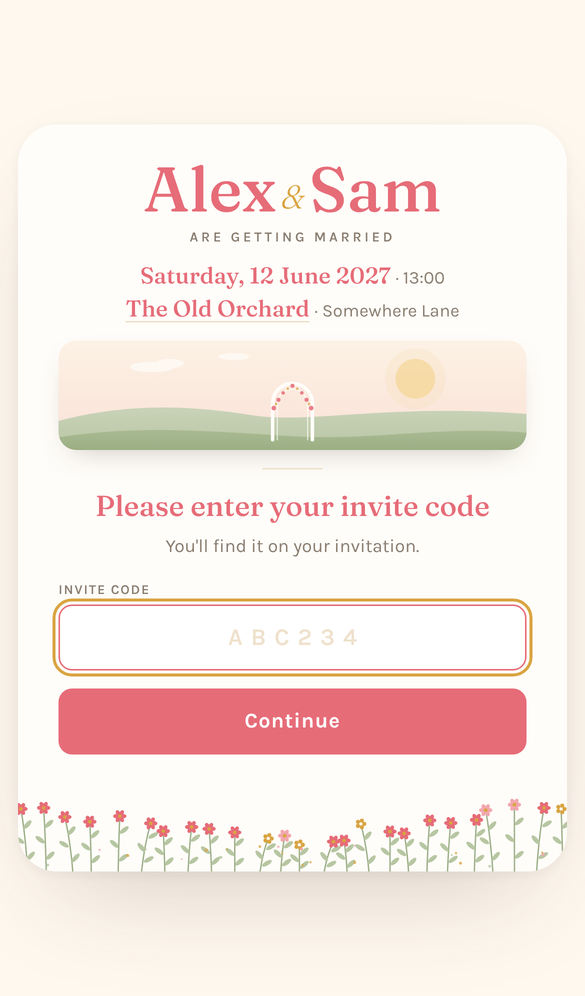
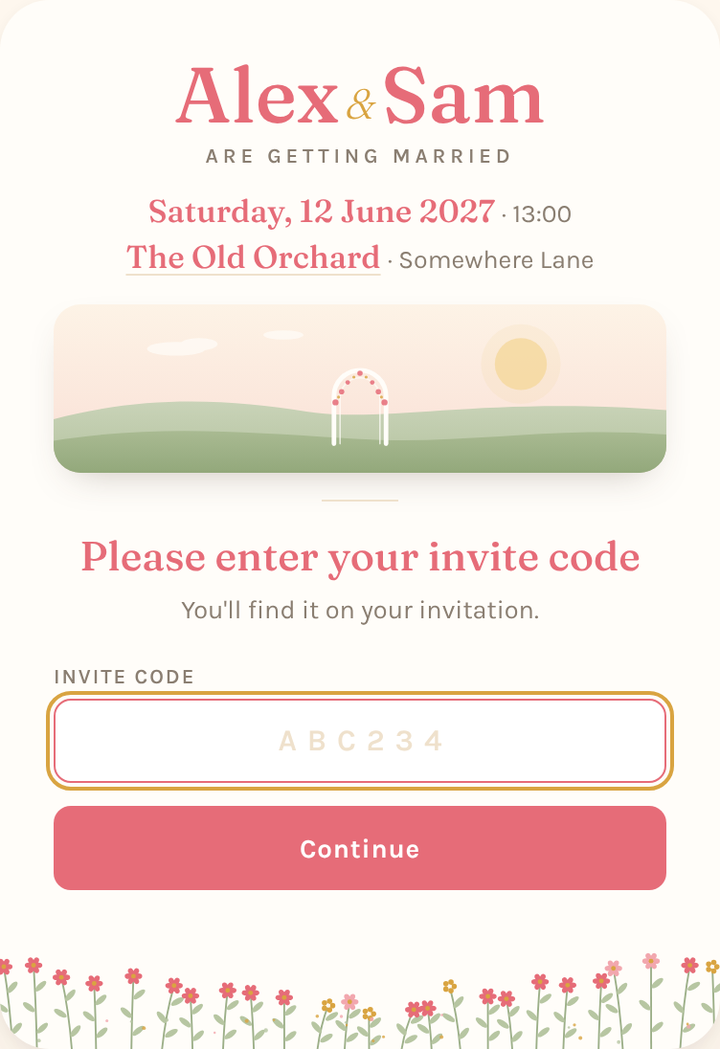
README: link the live demo; fresh screenshots of the current design

Changed region(s): [[0.0, 0.0622, 1.0, 1.0], [0.0, 0.3112, 0.0308, 0.7781]]

diff --git a/README.md b/README.md
@@ -8,6 +8,10 @@ invitation, say who's coming, add plus ones, and pick meals if you want them
 to. You manage everything from a private admin page: your names and date, the
 wording, the guest list, and the replies.
 
+**[Try the live demo →](https://demo.rsvper.app)** It's the real app with a made-up
+wedding, running entirely in your browser: no sign-in, and nothing you change leaves your
+device. Try the guest invitation with code `GUEST3`, then open the couple's dashboard.
+
 [![Deploy to Cloudflare](https://deploy.workers.cloudflare.com/button)](https://deploy.workers.cloudflare.com/?url=https://github.com/pyro142/RSVPer)
 
 ## Background & AI Use
@@ -43,24 +47,36 @@ I originally created this project for my own wedding, AI was used to assist in t
 
 ## Screenshots
 
-All screenshots use made-up data from `npm run db:seed:local`.
+Made-up data from `npm run db:seed:local`. Or skip the pictures and
+[try the demo](https://demo.rsvper.app).
 
 <table>
   <tr>
-    <td width="33%"><img src="docs/screenshots/guest-code.png" alt="The invitation card asking for an invite code"></td>
-    <td width="33%"><img src="docs/screenshots/guest-reply.png" alt="A household replying, with a plus one, meal choices and a song request"></td>
-    <td width="33%"><img src="docs/screenshots/guest-evening.png" alt="The evening version of the card for a reception-only guest"></td>
+    <td width="25%"><img src="docs/screenshots/guest-code.png" alt="The invitation card asking for an invite code"></td>
+    <td width="25%"><img src="docs/screenshots/guest-reply.png" alt="A household replying, with a plus one, a meal choice, a dietary note and a song request"></td>
+    <td width="25%"><img src="docs/screenshots/guest-evening.png" alt="The night-time version of the card for an evening-only household"></td>
+    <td width="25%"><img src="docs/screenshots/admin-preview-phone.png" alt="Settings on a phone, with the live preview open as a sheet over the form"></td>
   </tr>
   <tr>
-    <td>Guests enter their code (or use their personal link)</td>
-    <td>Replying: who's coming, plus ones, meals, song request</td>
-    <td>Evening guests get their own time and look</td>
+    <td>Guests enter their code, or use their personal link</td>
+    <td>Replying: who's coming, plus ones, meals, dietary needs, a song</td>
+    <td>Evening guests get their own time and night-time look</td>
+    <td>Edit on your phone and preview as you go</td>
   </tr>
 </table>
 
+**The couple's dashboard:** replies, head counts, meal totals and every household at a glance.
+
 ![The admin dashboard with reply counts, meal totals and the invite list](docs/screenshots/admin-dashboard.png)
 
-![The setup wizard on the date and time step](docs/screenshots/admin-setup.png)
+**Settings with a live preview:** colour themes, your own colours and font pairings, with
+unsaved changes shown on the real invitation as you make them.
+
+![Settings on the colours and fonts section, with the live preview beside it](docs/screenshots/admin-settings.png)
+
+**First-run setup:** four short steps, previewed as you type.
+
+![The setup wizard on its first step, with the live preview](docs/screenshots/admin-setup.png)
 
 ## Deploy
 
